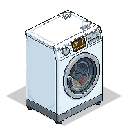
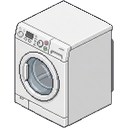
fix(virtual-house): fill washing machine top, fix cut dining chair and align NW offsets to tiles

diff --git a/src/utils/isometric.ts b/src/utils/isometric.ts
@@ -65,7 +65,7 @@ export const FURNITURE_SIZES: Record<string, FurnitureFootprint> = {
 
 export const FURNITURE_PIXEL_SIZES: Record<string, FurniturePixelSize> = {
   fridge: { w: 128, h: 160 },
-  stove: { w: 128, h: 128, offsetX: -4, offsetY: -2 },
+  stove: { w: 128, h: 128 },
   microwave: { w: 72, h: 54, offsetX: 28, offsetY: -64 },
   sink_counter: { w: 192, h: 128 },
   dining_table: { w: 192, h: 128 },
@@ -73,7 +73,7 @@ export const FURNITURE_PIXEL_SIZES: Record<string, FurniturePixelSize> = {
   dining_chair_back: { w: 128, h: 128 },
   dining_table_simple: { w: 192, h: 128 },
   kitchen_cabinet: { w: 192, h: 128, offsetX: -64, offsetY: 0 },
-  dishwasher: { w: 128, h: 128, offsetX: -6, offsetY: -3 },
+  dishwasher: { w: 128, h: 128 },
   sofa: { w: 192, h: 160 },
   tv_rack: { w: 192, h: 160, offsetY: -4 },
   coffee_table: { w: 128, h: 80 },
@@ -85,9 +85,9 @@ export const FURNITURE_PIXEL_SIZES: Record<string, FurniturePixelSize> = {
   toilet: { w: 128, h: 128 },
   bathroom_sink: { w: 128, h: 160, offsetX: 0, offsetY: -4 },
   shower: { w: 128, h: 186 },
-  washing_machine: { w: 128, h: 128, offsetX: -6, offsetY: -3 },
-  dryer: { w: 128, h: 128, offsetX: -6, offsetY: -3 },
-  laundry_sink: { w: 128, h: 128, offsetX: -6, offsetY: -3 },
+  washing_machine: { w: 128, h: 128 },
+  dryer: { w: 128, h: 128 },
+  laundry_sink: { w: 128, h: 128 },
   coffee_maker: { w: 64, h: 56, offsetX: 36, offsetY: -62 },
   air_fryer: { w: 64, h: 56, offsetX: 32, offsetY: -62 },
   robot_vacuum: { w: 64, h: 48, offsetX: 32, offsetY: -8 },

diff --git a/src/components/wedding/PublicVirtualHouse.tsx b/src/components/wedding/PublicVirtualHouse.tsx
@@ -63,7 +63,7 @@ const FURNITURE_ICONS: Record<string, string> = {
 
 const SCENE_WIDTH = 1220;
 const SCENE_HEIGHT = (9 + 6) * (TILE_H / 2) + 260; // 740
-const ASSET_VERSION = "35";
+const ASSET_VERSION = "36";
 
 const STRUCTURAL_ITEMS = ["foundation", "floor_coverings", "walls", "painting", "doors_windows", "roof", "electric", "plumbing"];
 

diff --git a/src/components/wedding/DashboardVirtualHouse.tsx b/src/components/wedding/DashboardVirtualHouse.tsx
@@ -41,7 +41,7 @@ const ROOM_DISPLAY = {
 
 const SCENE_WIDTH = 1220;
 const SCENE_HEIGHT = (9 + 6) * (TILE_H / 2) + 260; // 740
-const ASSET_VERSION = "35";
+const ASSET_VERSION = "36";
 
 const STRUCTURAL_ITEMS = ["foundation", "floor_coverings", "walls", "painting", "doors_windows", "roof", "electric", "plumbing"];
 
